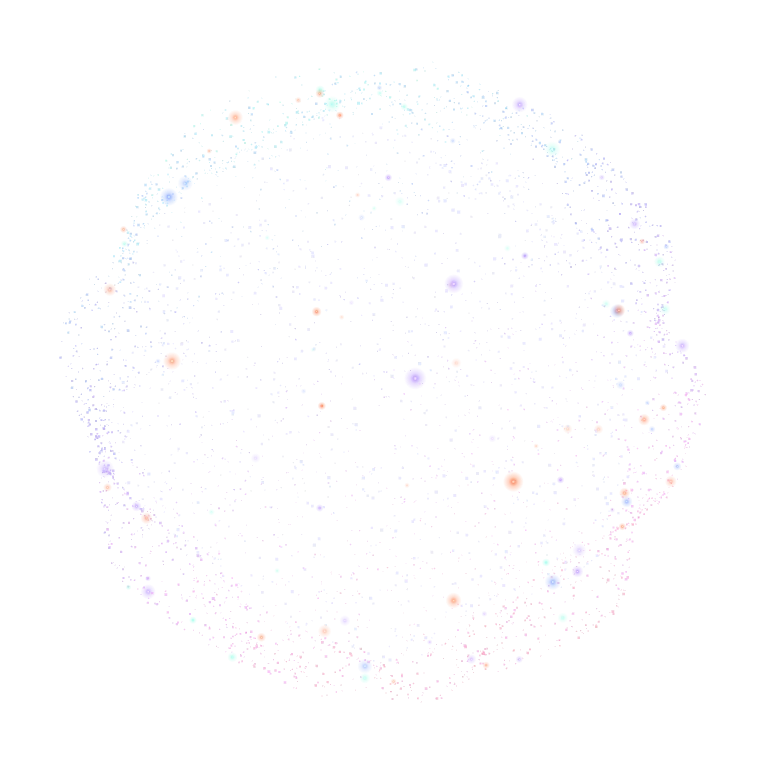
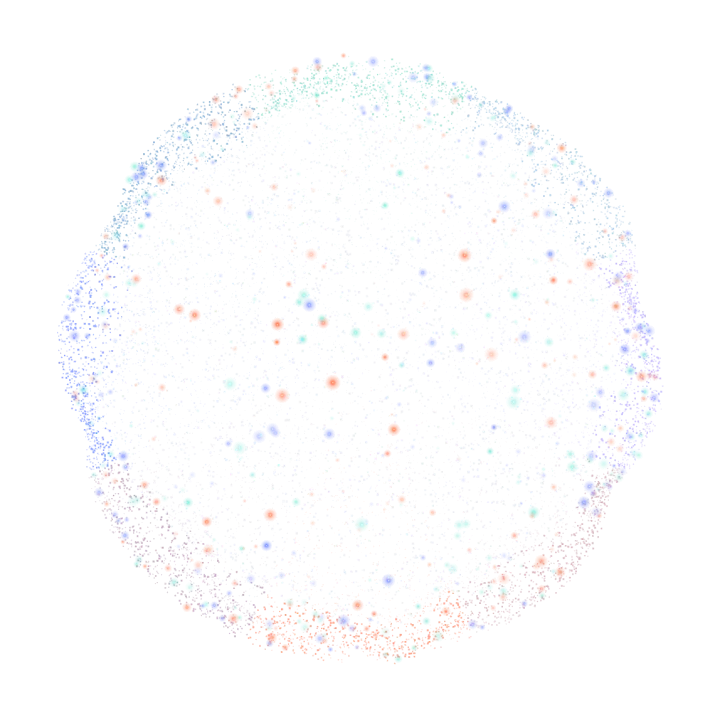
feat(frontend): densify the star sphere and speed up its rotation

diff --git a/frontend/components/sphere-scene.ts b/frontend/components/sphere-scene.ts
@@ -1,7 +1,9 @@
 import type { SpherePose } from "./sphere-motion";
 
 const tau = 2 * Math.PI;
-const starColors = ["#8daeff", "#9cffe6", "#ff966e", "#c1a2ff"];
+const glowFraction = 0.035;
+const starColors = ["#758aff", "#88ebdb", "#ff845e"];
+const rimColors = ["#b4a3ff", "#cb9eaa", "#ff8463", "#b18eac", "#6481ff", "#679cca", "#81d7c7", "#98bfdd"];
 
 function makeGlow(color: string) {
   const sprite = document.createElement("canvas");
@@ -32,26 +34,25 @@ export function createSphereScene(
 
   const glows = starColors.map(makeGlow);
   // Each path shares one paint. Depth bands retain the bright front and the coloured rim.
-  const palette = Array.from({ length: 36 }, (_, index) => {
-    const band = Math.floor(index / 12);
-    const hue = 175 + (index % 12) * 16;
-    return `hsla(${hue}, 78%, ${64 + band * 9}%, ${0.30 + band * 0.18})`;
-  });
-  palette.push("rgba(225,230,255,0.80)");
-  const particles = Array.from({ length: 4200 }, () => {
+  const palette = ["2e", "6b", "ad"].flatMap(alpha =>
+    rimColors.map(color => color + alpha),
+  );
+  const interiorColor = palette.push("rgba(184,194,221,0.22)") - 1;
+  const frontColor = palette.push("rgba(235,238,248,0.80)") - 1;
+  const particles = Array.from({ length: 15000 }, () => {
     const y = random() * 2 - 1;
     const longitude = random() * tau;
     const ring = Math.sqrt(1 - y * y);
     const x = Math.cos(longitude) * ring;
     const z = Math.sin(longitude) * ring;
     const phase = longitude * 5 + y * 9;
-    const shell = 0.972 + 0.019 * Math.sin(phase) + 0.015 * Math.cos(y * 17 + longitude * 3) + random() * 0.025;
-    const hue = 261 + y * 70 + 24 * x + (random() - 0.5) * 34;
+    const kind = random();
+    const interior = kind >= glowFraction && kind < 0.13;
+    const shell = interior ? 0.42 + random() * 0.52 : 0.98 + random() * 0.04;
     return {
-      x: x * shell, y: y * shell, z: z * shell, phase,
-      color: Math.max(0, Math.min(11, Math.round((hue - 175) / 16))),
-      size: 0.0022 + random() ** 2 * 0.0043,
-      glow: random() < 0.022 ? glows[Math.floor(random() * glows.length)] : null,
+      x: x * shell, y: y * shell, z: z * shell, phase, interior,
+      size: 0.0023 + random() * 0.0033,
+      glow: kind < glowFraction ? glows[Math.floor(random() * glows.length)] : null,
     };
   });
 
@@ -70,7 +71,7 @@ export function createSphereScene(
     const cos = Math.cos(angle);
     const sin = Math.sin(angle);
     const tilt = pose.pitch + 0.12 * Math.sin(time * 0.23) - (pose.pointerY - 0.5) * pose.influence * 0.16;
-    const breathing = 0.045 * Math.sin(time * 1.1);
+    const breathing = 0.012 * Math.sin(time * 1.1);
     const width = 1 + pose.stretchX - pose.stretchY * 0.4 + breathing;
     const height = 1 + pose.stretchY - pose.stretchX * 0.4 - breathing;
     const reach = size * 0.23;
@@ -80,7 +81,7 @@ export function createSphereScene(
 
     const paths = palette.map(() => new Path2D());
     // The points are uniformly distributed, so any prefix still covers the whole sphere.
-    const count = Math.min(particles.length, Math.max(2000, Math.round(size * size / 130)));
+    const count = Math.min(particles.length, Math.max(6000, Math.round(size * size / 28)));
     for (let index = 0; index < count; index++) {
       const p = particles[index];
       const z = p.z * cos - p.x * sin;
@@ -88,8 +89,10 @@ export function createSphereScene(
       const wave = 1 + 0.034 * Math.sin(time * 0.95 + p.phase)
         + pose.expansion * (0.2 + p.size * 170);
       const scale = radius * wave / (1 - depth * 0.095);
-      let x = center + (p.x * cos + p.z * sin) * scale * width;
-      let y = center + (p.y * ct - z * st) * scale * height;
+      const surfaceX = p.x * cos + p.z * sin;
+      const surfaceY = p.y * ct - z * st;
+      let x = center + surfaceX * scale * width;
+      let y = center + surfaceY * scale * height;
       if (pose.influence > 0.01) {
         const dx = x - pose.pointerX * size;
         const dy = y - pose.pointerY * size;
@@ -101,14 +104,20 @@ export function createSphereScene(
         }
       }
       const light = (depth + 1) / 2;
-      const dot = Math.max(0.85, radius * p.size * (0.76 + light));
+      const dot = Math.max(0.65, radius * p.size * (0.55 + light));
       if (p.glow) {
-        context.globalAlpha = 0.29 + light * (0.58 + 0.12 * Math.sin(p.phase + time));
+        context.globalAlpha = (0.3 + light * 0.7) * (0.72 + 0.28 * Math.sin(p.phase + time * 2.6));
         const halo = dot * 3.4;
         context.drawImage(p.glow, x - halo, y - halo, halo * 2, halo * 2);
       } else {
         const band = depth < -0.35 ? 0 : depth < 0.1 ? 1 : 2;
-        const color = depth > 0.54 ? palette.length - 1 : p.color + band * 12;
+        let color = frontColor;
+        if (p.interior) {
+          color = interiorColor;
+        } else if (depth < 0.55) {
+          const sector = Math.round(Math.atan2(surfaceY, surfaceX) * rimColors.length / tau);
+          color = band * rimColors.length + (sector + rimColors.length) % rimColors.length;
+        }
         paths[color].rect(x, y, dot, dot);
       }
     }

diff --git a/frontend/components/sphere-motion.ts b/frontend/components/sphere-motion.ts
@@ -1,3 +1,5 @@
+const autoTurnSeconds = 20;
+
 // Pointer coordinates are fractions of the canvas so the response scales with the sphere.
 export function trackSphereMotion(surface: HTMLElement) {
   const pose = { yaw: 0, pitch: -0.08, pointerX: 0.5, pointerY: 0.5, influence: 0, stretchX: 0, stretchY: 0, expansion: 0 };
@@ -60,7 +62,7 @@ export function trackSphereMotion(surface: HTMLElement) {
     pose,
     advance(dt: number) {
       const ease = 1 - Math.exp(-9 * dt);
-      pose.yaw += dt * 0.14;
+      pose.yaw += dt * (2 * Math.PI / autoTurnSeconds);
       if (dragging === null) {
         pose.yaw += yawSpeed * dt;
         pose.pitch = clamp(pose.pitch + pitchSpeed * dt, 1.1);

diff --git a/docs/design-system.md b/docs/design-system.md
@@ -7,6 +7,6 @@
 - `.pill` оформляет основные действия и ссылки в карточках проектов. `.text-link` сохраняет подчёркивание у вторичных текстовых ссылок. Якоря меню получают контрастный текст при наведении. Видимый контур фокуса отделён от ссылки зазором.
 - Активный язык получает светлую заливку и `aria-current="page"`. Обе версии открываются обычными ссылками. Первая ссылка при обходе с клавиатуры ведёт к основному содержимому.
 - Навыки участников оформляются классом `.tag` и остаются элементами списка. Эмблемы рядом с названием и аватары при подписанном имени скрыты от экранного диктора.
-- На первом экране сфера из частиц вращается сама и по направлению перетаскивания. Оболочка вытягивается при движении и плавно восстанавливает форму. При системной настройке уменьшения движения виден неподвижный кадр, переход цвета основной кнопки отключается.
+- На первом экране звёздная сфера делает оборот за 20 секунд. На телефоне видны 6 000 частиц, на большом экране — до 15 000. Светлая передняя поверхность переходит в цветной мерцающий край. Сферу можно повернуть перетаскиванием. Оболочка вытягивается при движении и плавно восстанавливает форму. При системной настройке уменьшения движения виден неподвижный кадр, переход цвета основной кнопки отключается.
 
 Перед публикацией проверьте переключение RU → EN → RU, видимый фокус, все якоря, контакт и проект. На 360, 768 и 1440 px проверьте перенос имён и заголовков, карточки проектов без изображений и отсутствие горизонтальной прокрутки.

diff --git a/docs/decisions/0036-star-sphere.md b/docs/decisions/0036-star-sphere.md
@@ -1,0 +1,7 @@
+# 0036. Плотность звёзд и скорость вращения сферы
+
+Дата принятия — 2026-11-26.
+
+Для первого экрана взяли за ориентир [сферу Livel Agency](https://livel-agency.com/). На телефоне рисуем 6 000 частиц, с ростом площади холста увеличиваем их количество до 15 000. Около 3,5% частиц дают цветные мерцающие блики. Более тусклые точки внутри оболочки добавляют глубину.
+
+Автоматический оборот занимает 20 секунд, чтобы движение было заметно сразу. Скорость рассчитывается по прошедшему времени. Перетаскивание и инерция следуют [решению 0013](0013-hero-layout-and-motion.md), пакетная отрисовка и неподвижный кадр при уменьшенном движении — [решению 0014](0014-sphere-rendering-and-skills.md).

diff --git a/docs/decisions/README.md b/docs/decisions/README.md
@@ -38,5 +38,6 @@
 | [0032. Карточка QA Tester Agent](0032-qa-tester-agent.md) | 2026-11-26 |
 | [0033. Сокращение карточек портфолио](0033-compact-project-cards.md) | 2026-11-26 |
 | [0034. Проект Артемия в портфолио](0034-sellevate.md) | 2026-11-26 |
+| [0036. Плотность звёзд и скорость вращения сферы](0036-star-sphere.md) | 2026-11-26 |
 
 Скопируй [шаблон записи](template.md) в файл `NNNN-краткое-название.md` и добавь его в таблицу.
